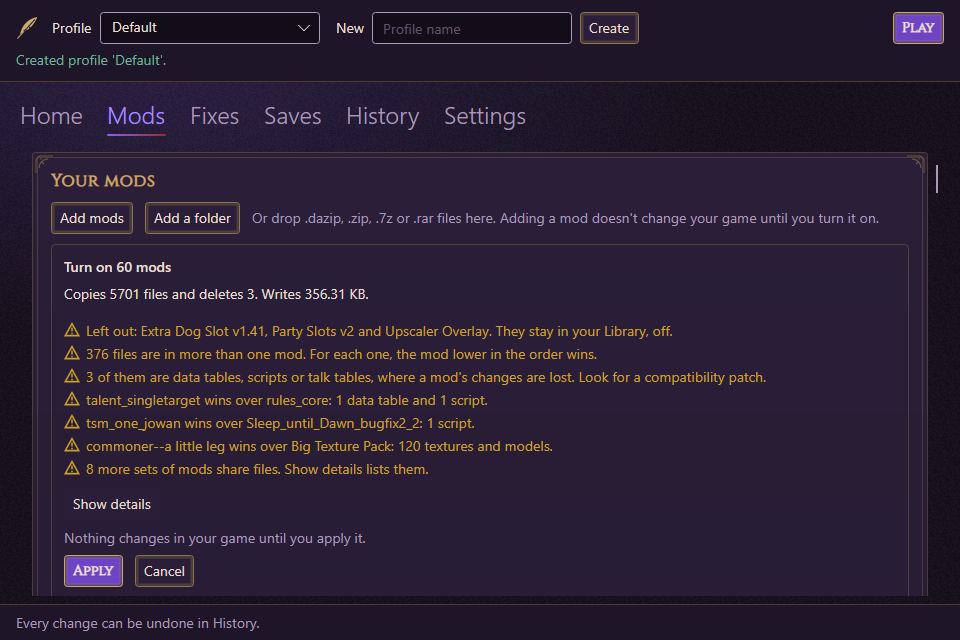
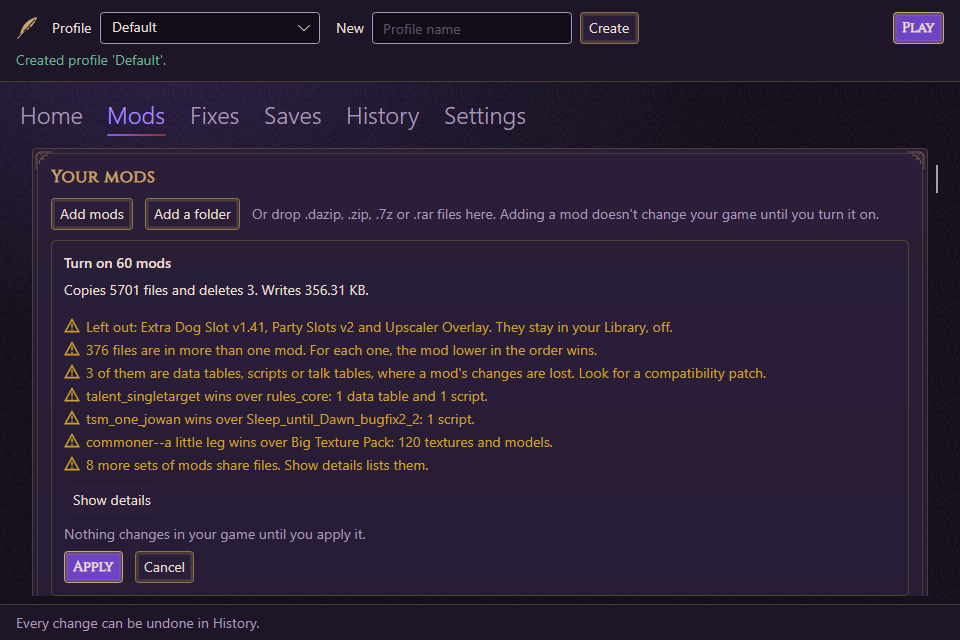
fix(mods): bring a preview and its buttons into view when it opens (P2.6-13)
The preview opens above the list, so at the window's own size its buttons were
below the fold, and a switch pressed far down the list seemed to do nothing.

Changed region(s): [[0.0625, 0.5, 0.8125, 0.75], [0.0312, 0.2188, 0.9688, 0.4688], [0.0625, 0.7812, 0.375, 0.9375]]

diff --git a/tests/DAORework.App.Tests/RealScalePreviewTests.cs b/tests/DAORework.App.Tests/RealScalePreviewTests.cs
@@ -1,6 +1,8 @@
+using Avalonia;
 using Avalonia.Controls;
 using Avalonia.Headless.XUnit;
 using Avalonia.LogicalTree;
+using Avalonia.Threading;
 using Avalonia.VisualTree;
 using DAORework.App.Views;
 using Xunit;
@@ -52,10 +54,29 @@ public sealed class RealScalePreviewTests : IDisposable
         Assert.False(activation.ApplyCommand.CanExecute(null));
 
         ModsTabScenario.Show<LibraryPanel>(window);
-        var panel = window.GetLogicalDescendants().OfType<LibraryPanel>().Distinct().Single();
-        var border = panel.GetLogicalDescendants().OfType<Border>().First(b => b.Name == "PlanPreview");
-        Assert.InRange(border.Bounds.Height, 1, panel.FindAncestorOfType<ScrollViewer>()!.Viewport.Height);
         Screenshots.Save(window, "real-scale-01-blocked-preview");
+    }
+
+    [AvaloniaFact]
+    public async Task TurnOn_FromFarDownTheList_BringsTheWholePreviewAndItsButtonsIntoView()
+    {
+        var (window, viewModel) = await _scenario.OpenAsync();
+        var panel = window.GetLogicalDescendants().OfType<LibraryPanel>().Distinct().Single();
+        window.UpdateLayout();
+        var scroller = panel.FindAncestorOfType<ScrollViewer>()!;
+        scroller.Offset = new Vector(0, scroller.Extent.Height);
+        window.UpdateLayout();
+
+        await RealScaleScenario.TurnOnEverythingAsync(viewModel);
+        window.UpdateLayout();
+        Dispatcher.UIThread.RunJobs();
+        window.UpdateLayout();
+
+        var border = panel.GetLogicalDescendants().OfType<Border>().First(b => b.Name == "PlanPreview");
+        var top = border.TranslatePoint(default, scroller)!.Value.Y;
+        Assert.InRange(top, 0, scroller.Viewport.Height);
+        Assert.InRange(top + border.Bounds.Height, 0, scroller.Viewport.Height);
+        Screenshots.Save(window, "real-scale-03-preview-in-view");
     }
 
     [AvaloniaFact]

diff --git a/src/DAORework.App/Views/LibraryPanel.axaml.cs b/src/DAORework.App/Views/LibraryPanel.axaml.cs
@@ -1,6 +1,8 @@
+using System.ComponentModel;
 using Avalonia.Controls;
 using Avalonia.Input;
 using Avalonia.Platform.Storage;
+using Avalonia.Threading;
 using DAORework.App.ViewModels;
 
 namespace DAORework.App.Views;
@@ -13,6 +15,24 @@ public sealed partial class LibraryPanel : UserControl
         InitializeComponent();
         AddHandler(DragDrop.DragOverEvent, OnDragOver);
         AddHandler(DragDrop.DropEvent, OnDrop);
+    }
+
+    /// <summary>A preview opens above the list, so a switch pressed far down it would otherwise seem to do nothing.</summary>
+    protected override void OnDataContextChanged(EventArgs e)
+    {
+        base.OnDataContextChanged(e);
+        if (DataContext is ModsTabViewModel mods)
+        {
+            mods.Activation.Preview.PropertyChanged += OnPreviewChanged;
+        }
+    }
+
+    private void OnPreviewChanged(object? sender, PropertyChangedEventArgs e)
+    {
+        if (e.PropertyName == nameof(ViewModels.PlanPreview.Title) && sender is ViewModels.PlanPreview { Title: not null })
+        {
+            Dispatcher.UIThread.Post(() => PlanPreview.BringIntoView(), DispatcherPriority.Loaded);
+        }
     }
 
     /// <summary>The local paths of the files and folders in a drop; items with none, such as a browser link, are left out.</summary>
